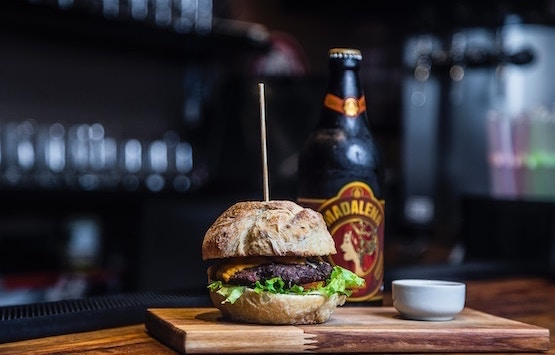
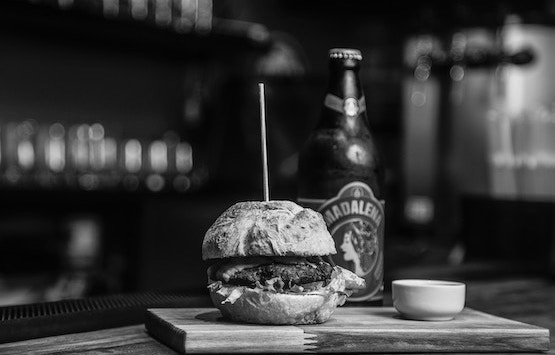
change pic colors to black and white

diff --git a/index.html b/index.html
@@ -141,24 +141,12 @@
                             <h4>CSS3</h4>
                         </div>
                         <div class="col-xs-6 col-sm-4 col-md-3" data-aos="fade-right">
-                            <i class="devicon-bootstrap-plain devicons"></i>
-                            <h4>Bootstrap</h4>
-                        </div>
-                        <div class="col-xs-6 col-sm-4 col-md-3" data-aos="fade-right">
                             <i class="devicon-javascript-plain devicons"></i>
                             <h4>JavaScript</h4>
                         </div>
                         <div class="col-xs-6 col-sm-4 col-md-3" data-aos="fade-right">
-                            <i class="devicon-jquery-plain devicons"></i>
-                            <h4>JQuery</h4>
-                        </div>
-                        <div class="col-xs-6 col-sm-4 col-md-3" data-aos="fade-right">
                             <i class="devicon-nodejs-plain devicons"></i>
                             <h4>Node.js</h4>
-                        </div>
-                        <div class="col-xs-6 col-sm-4 col-md-3" data-aos="fade-right">
-                            <i class="devicon-express-original devicons"></i>
-                            <h4>Express</h4>
                         </div>
                         <div class="col-xs-6 col-sm-4 col-md-3" data-aos="fade-right">
                             <i class="devicon-mysql-plain devicons"></i>
@@ -167,14 +155,6 @@
                         <div class="col-xs-6 col-sm-4 col-md-3" data-aos="fade-right">
                             <i class="devicon-mongodb-plain devicons"></i>
                             <h4>MongoDB</h4>
-                        </div>
-                        <div class="col-xs-6 col-sm-4 col-md-3" data-aos="fade-right">
-                            <i class="devicon-react-original devicons"></i>
-                            <h4>React</h4>
-                        </div>
-                        <div class="col-xs-6 col-sm-4 col-md-3" data-aos="fade-right">
-                            <i class="devicon-github-plain devicons"></i>
-                            <h4>GitHub</h4>
                         </div>
                     </div>
                 </div>
